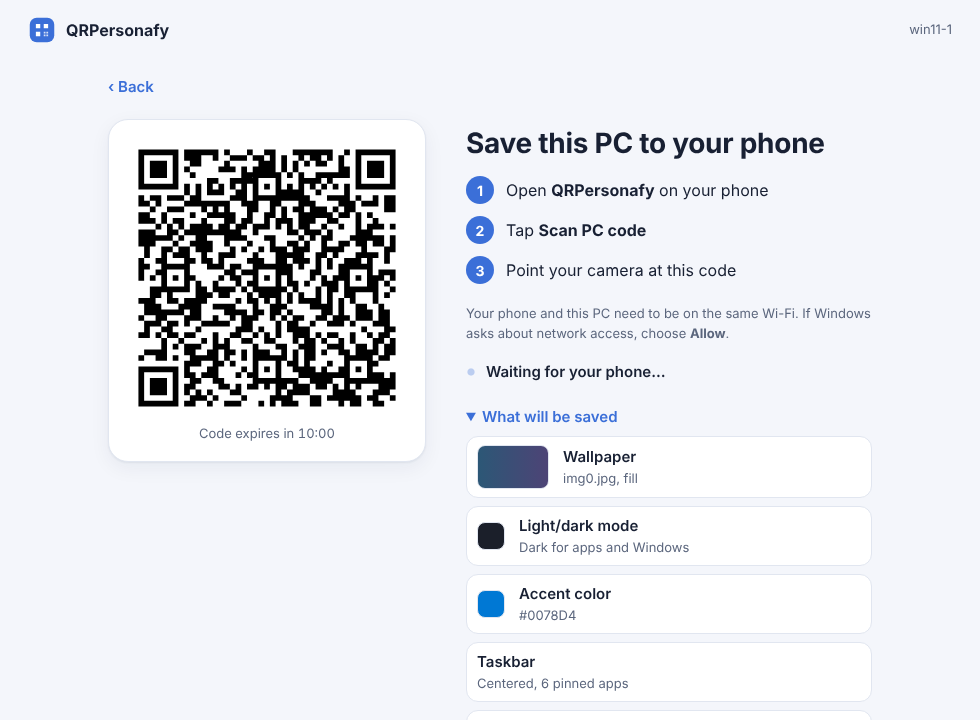
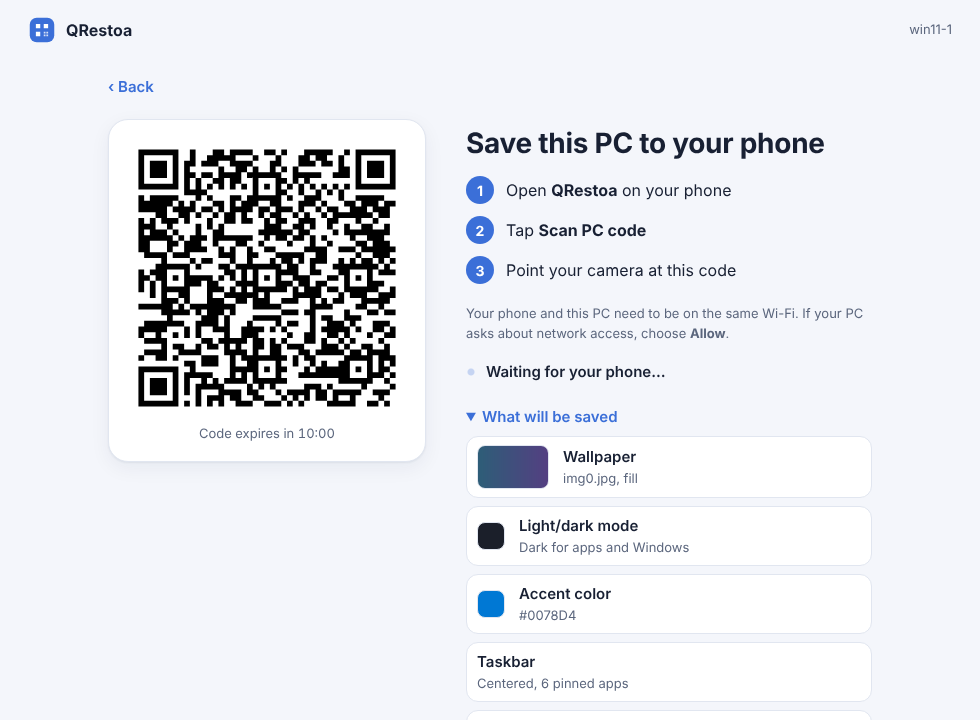
Show the new name in the README pictures
Redo docs/images/desktop.png and phone.png so they say QRestoa. The phone pictures now come
from a script (mobile/tool/readme_screenshots_test.dart + stitch_screenshots.py) that renders the
real screens with sample data, so they're easy to make again.

Claude-Session: https://claude.ai/code/session_01SHKzL5XgZUbHxy5Bth6ZRF

diff --git a/mobile/tool/readme_screenshots_test.dart b/mobile/tool/readme_screenshots_test.dart
@@ -1,0 +1,175 @@
+// Makes the phone pictures for the README (docs/images/phone.png), with the real screens and
+// sample data. Run from mobile/:
+//
+//   flutter test --update-goldens tool/readme_screenshots_test.dart
+//   python3 tool/stitch_screenshots.py
+//
+// The first writes one picture per screen to tool/screenshots/; the second joins them.
+// It lives in tool/ so the normal `flutter test` run doesn't pick it up.
+
+import 'dart:convert';
+import 'dart:io';
+import 'dart:ui' as ui;
+
+import 'package:flutter/material.dart';
+import 'package:flutter/services.dart';
+import 'package:flutter_test/flutter_test.dart';
+import 'package:qrpersonafy/src/app.dart';
+import 'package:qrpersonafy/src/backup/backup_service.dart';
+import 'package:qrpersonafy/src/pairing.dart';
+import 'package:qrpersonafy/src/profile_store.dart';
+import 'package:qrpersonafy/src/screens/transfer_screen.dart';
+
+const _size = Size(400, 851);
+const _pixelRatio = 1.1;
+
+class _Keys implements KeyStore {
+  @override
+  Future<List<int>> loadOrCreateKey() async => List.filled(32, 7);
+}
+
+/// Stands in for a PC: hands out [profile] and "applies" whatever is sent.
+class _FakePc extends PairingClient {
+  _FakePc(this.profile);
+
+  final Map<String, dynamic> profile;
+
+  @override
+  Future<Map<String, dynamic>> download(PairRequest request) async => profile;
+
+  @override
+  Future<ReceiveResult> upload(PairRequest request, Map<String, dynamic> profile) async => ReceiveResult(
+        applied: ['wallpaper', 'theme', 'accent', 'taskbar'],
+        warnings: [
+          "Taskbar: Windows doesn't let apps change the Widgets button. Set it yourself in Settings > "
+              'Personalization > Taskbar.',
+        ],
+      );
+}
+
+Future<void> _loadFonts() async {
+  final fonts = '${Platform.environment['FLUTTER_ROOT']}/bin/cache/artifacts/material_fonts';
+  Future<ByteData> read(String name) async => ByteData.sublistView(File('$fonts/$name').readAsBytesSync());
+  final roboto = FontLoader('Roboto');
+  for (final style in ['Regular', 'Medium', 'Bold', 'Light']) {
+    roboto.addFont(read('Roboto-$style.ttf'));
+  }
+  await roboto.load();
+  await (FontLoader('MaterialIcons')..addFont(read('MaterialIcons-Regular.otf'))).load();
+}
+
+Future<List<int>> _gradient(Color from, Color to) async {
+  final recorder = ui.PictureRecorder();
+  const rect = Rect.fromLTWH(0, 0, 640, 360);
+  Canvas(recorder).drawRect(
+    rect,
+    Paint()..shader = ui.Gradient.linear(rect.topCenter, rect.bottomCenter, [from, to]),
+  );
+  final image = await recorder.endRecording().toImage(640, 360);
+  final data = await image.toByteData(format: ui.ImageByteFormat.png);
+  return data!.buffer.asUint8List();
+}
+
+Map<String, dynamic> _profile(List<int> wallpaper, {required int accentAbgr, required bool dark, required List<String> also}) {
+  const personalize = r'Software\Microsoft\Windows\CurrentVersion\Themes\Personalize';
+  return {
+    'format': 'qrpersonafy-profile',
+    'version': 1,
+    'settings': {
+      'wallpaper': {
+        'files': {
+          'image': {'name': 'wallpaper.png', 'data': base64.encode(wallpaper)},
+        },
+      },
+      'theme': {
+        'registry': [
+          {'key': personalize, 'name': 'AppsUseLightTheme', 'type': 'REG_DWORD', 'data': dark ? 0 : 1},
+          {'key': personalize, 'name': 'SystemUsesLightTheme', 'type': 'REG_DWORD', 'data': dark ? 0 : 1},
+        ],
+      },
+      'accent': {
+        'registry': [
+          {'key': r'Software\Microsoft\Windows\DWM', 'name': 'AccentColor', 'type': 'REG_DWORD', 'data': accentAbgr},
+        ],
+      },
+      for (final name in also) name: <String, dynamic>{},
+    },
+  };
+}
+
+Future<void> _settle(WidgetTester tester, [int rounds = 10]) async {
+  for (var i = 0; i < rounds; i++) {
+    await tester.runAsync(() => Future<void>.delayed(const Duration(milliseconds: 50)));
+    await tester.pump(const Duration(milliseconds: 100));
+  }
+  await tester.pump(const Duration(seconds: 1));
+}
+
+Future<void> _shot(String name) =>
+    expectLater(find.byType(MaterialApp), matchesGoldenFile('screenshots/$name.png'));
+
+void main() {
+  testWidgets('README phone screenshots', (tester) async {
+    tester.view.physicalSize = _size * _pixelRatio;
+    tester.view.devicePixelRatio = _pixelRatio;
+    addTearDown(tester.view.reset);
+    await tester.runAsync(_loadFonts);
+    WidgetsApp.debugAllowBannerOverride = false; // no DEBUG ribbon
+    addTearDown(() => WidgetsApp.debugAllowBannerOverride = true);
+
+    final dir = Directory.systemTemp.createTempSync('qrestoa-shots');
+    addTearDown(() => dir.deleteSync(recursive: true));
+    final store = ProfileStore(Directory('${dir.path}/profiles'), _Keys());
+    final backup = BackupService(store, MemoryBackupSettingsStore());
+
+    final blue = (await tester.runAsync(() => _gradient(const Color(0xFF2B2BD9), const Color(0xFF3A7A9A))))!;
+    final green = (await tester.runAsync(() => _gradient(const Color(0xFF5ACB6A), const Color(0xFF1F6B2A))))!;
+    // Windows keeps the accent color as 0xAABBGGRR.
+    final gaming = _profile(blue,
+        accentAbgr: 0xFFD47800, dark: true, also: ['taskbar', 'start', 'mouse', 'keyboard']);
+    final work = _profile(green, accentAbgr: 0xFF2E9E3C, dark: false, also: []);
+    final pc = _FakePc(gaming);
+
+    PairRequest request(PairMode mode, String name) =>
+        PairRequest(mode: mode, hosts: ['192.168.1.20'], port: 48213, key: List.filled(32, 1), pcName: name);
+    Widget app() => QrestoaApp(key: UniqueKey(), store: store, client: pc, backup: backup);
+    Widget transfer(PairRequest r) => MaterialApp(
+          key: UniqueKey(),
+          debugShowCheckedModeBanner: false,
+          theme: Theme.of(tester.element(find.byType(Scaffold).first)),
+          home: TransferScreen(request: r, store: store, client: pc),
+        );
+
+    // 1. Welcome
+    await tester.pumpWidget(app());
+    await _settle(tester);
+    await _shot('1-welcome');
+
+    // 2. Saving a PC (uses the app's own theme, taken from the screen above)
+    await tester.pumpWidget(transfer(request(PairMode.send, 'win11-1')));
+    await _settle(tester);
+    await _shot('2-save');
+
+    // 3. Saved PCs
+    await tester.runAsync(() async {
+      await store.save(gaming, name: 'Gaming PC', pcName: 'win11-1');
+      await Future<void>.delayed(const Duration(milliseconds: 20));
+      await store.save(work, name: 'Work laptop', pcName: 'LAPTOP-1');
+    });
+    await tester.pumpWidget(app());
+    await _settle(tester, 30);
+    await _shot('3-saved');
+
+    // 4. Restoring: pick a look
+    await tester.pumpWidget(transfer(request(PairMode.receive, 'win11-2')));
+    await _settle(tester, 30);
+    await tester.tap(find.text('Gaming PC'));
+    await _settle(tester);
+    await _shot('4-restore');
+
+    // 5. Done
+    await tester.tap(find.text('Send to win11-2'));
+    await _settle(tester);
+    await _shot('5-done');
+  });
+}

diff --git a/mobile/tool/stitch_screenshots.py b/mobile/tool/stitch_screenshots.py
@@ -1,0 +1,15 @@
+"""Joins tool/screenshots/*.png side by side into docs/images/phone.png. Needs Pillow."""
+
+from pathlib import Path
+
+from PIL import Image
+
+HERE = Path(__file__).parent
+shots = [Image.open(path).convert("RGB") for path in sorted((HERE / "screenshots").glob("*.png"))]
+gap = 8
+out = Image.new("RGB", (sum(s.width for s in shots) + gap * (len(shots) - 1), shots[0].height), (232, 234, 240))
+x = 0
+for shot in shots:
+    out.paste(shot, (x, 0))
+    x += shot.width + gap
+out.save(HERE.parent.parent / "docs" / "images" / "phone.png", optimize=True)

diff --git a/mobile/README.md b/mobile/README.md
@@ -34,3 +34,8 @@ flutter test
 ```
 
 `tool/cross_check.dart` talks to a real desktop session: run `qrestoa send` or `receive`, then `dart run tool/cross_check.dart '<text of the QR code>'`.
+
+## README pictures
+
+`docs/images/phone.png` is made from the real screens with sample data:
+`flutter test --update-goldens tool/readme_screenshots_test.dart`, then `python3 tool/stitch_screenshots.py` (needs Pillow).
